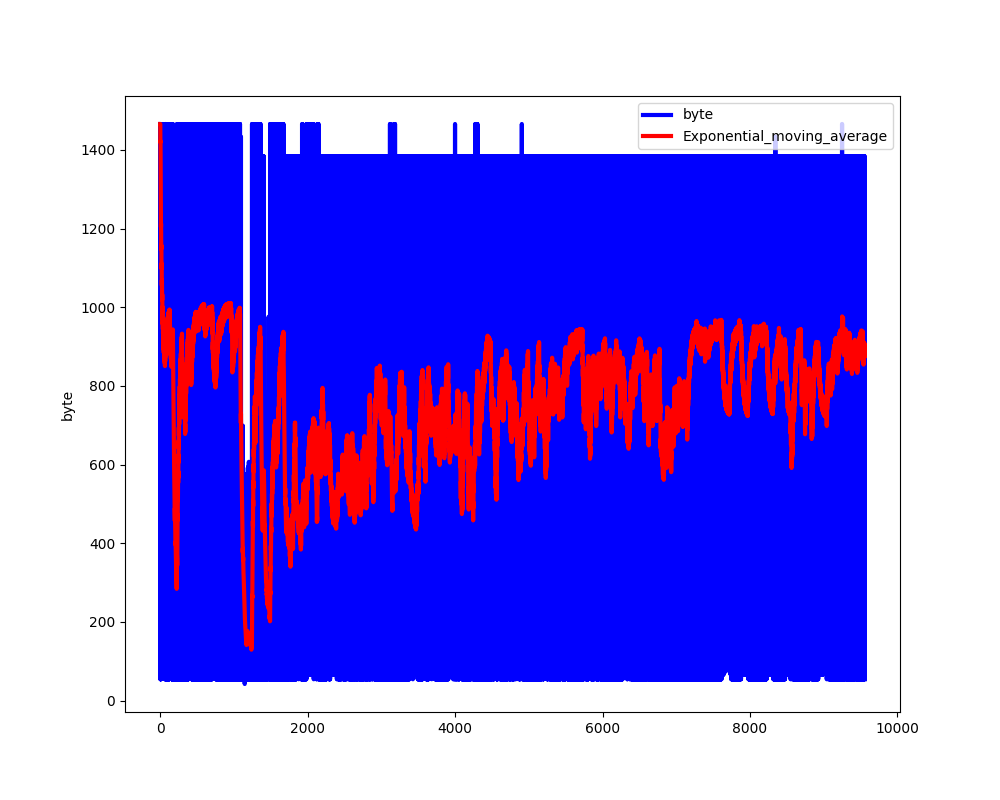
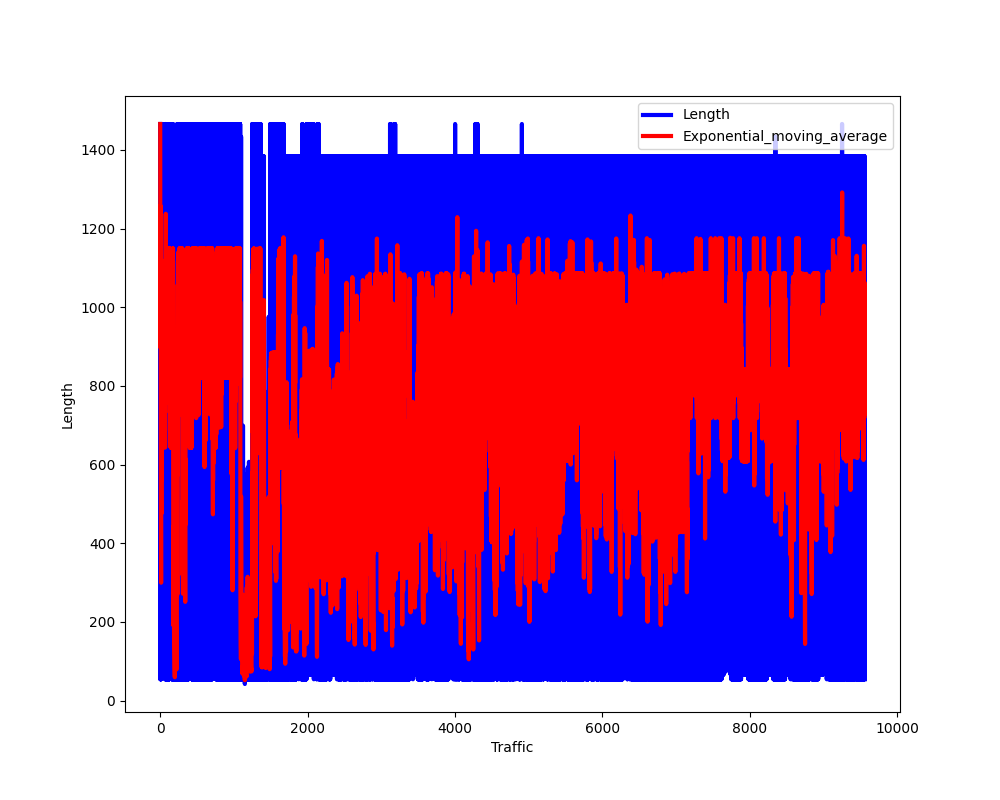
EWMA Calculation by Manually and Pandas ewm() Function

diff --git a/main.py b/main.py
@@ -1,23 +1,22 @@
-import math
-
-import pyshark
-import numpy as np
 import pandas as pd
 import matplotlib.pyplot as plt
 
-data = pd.read_csv("C:/Users/damla/Desktop/Tez/Csvdosyaları/60sec.csv")
+data = pd.read_csv("C:/Users/damla/Desktop/60sec.csv")
 
-time_period = 60 # moving averages window
 
-alpha = 2 / (time_period + 1) # smoothing factor
+print(data.head())
 
-data['byte'].plot()
+time_period = 60
+alpha = 0.8 # smoothing factor
 
-byteList = data['byte']
+data['Length'].plot()
+
+
+byteList = data['Length']
 
 
 exponential_moving_average = [] # list used to store the computed exponential moving averages
-exponential_moving_average_value = 0 # used to store the valur of the computed exponential moving average
+exponential_moving_average_value = 0 # used to store the value of the computed exponential moving average
 
 for byte in byteList:
     if(exponential_moving_average_value == 0):
@@ -27,22 +26,46 @@ for byte in byteList:
 
     exponential_moving_average.append(exponential_moving_average_value)
 
-print(exponential_moving_average)
+
+
+# Manually computed plot
 
 data = data.assign(Exponential_moving_average=pd.Series(exponential_moving_average, index=data.index))
 
-fig1 = plt.figure(figsize=(10,8))
-ax1 = fig1.add_subplot(111,ylabel='byte')
-data['byte'].plot(ax=ax1, color='b', lw=3, legend=True)
-data['Exponential_moving_average'].plot(ax=ax1, color='r', lw=3, legend=True)
-plt.savefig('exponential_moving_average.png')
-plt.show()
+# fig1 = plt.figure(figsize=(10, 8))
+# ax1 = fig1.add_subplot(111, ylabel='Length', xlabel='Traffic')
+# data['Length'].plot(ax=ax1, color='b', lw=3, legend=True)
+# data['Exponential_moving_average'].plot(ax=ax1, color='r', lw=3, legend=True)
+# plt.savefig('exponential_moving_average_alpha_0.8.png')
+# plt.show()
 
-exponential_moving_average_pandas = data['byte'].ewm(span=time_period, adjust=False).mean()
 
-fig2 = plt.figure(figsize=(10,8))
-ax2 = fig2.add_subplot(111, ylabel='Byte')
-data['Exponential_moving_average'].plot(ax=ax2, color='r', lw=10, label='Manually computed', legend=True)
-exponential_moving_average_pandas.plot(ax=ax2, color='k', lw=3, label='Pandas ewm() function', legend=True)
-plt.savefig('exponential_moving_average_comparison.png')
-plt.show()
+# EWMA computed with pandas function and manually computed values comparison
+
+exponential_moving_average_pandas = data['Length'].ewm(span=time_period, adjust=False).mean()
+
+# fig2 = plt.figure(figsize=(10, 8))
+# ax2 = fig2.add_subplot(111, ylabel='Length')
+# data['Exponential_moving_average'].plot(ax=ax2, color='r', lw=10, label='Manually computed', legend=True)
+# exponential_moving_average_pandas.plot(ax=ax2, color='k', lw=3, label='Pandas ewm() function', legend=True)
+# plt.savefig('exponential_moving_average_comparison_alpha_0.8.png')
+# plt.show()
+
+
+
+
+# fig3 = plt.figure(figsize=(10, 8))
+# ax3 = fig3.add_subplot(111, ylabel='Length')
+# data['Length'].plot(ax=ax3, color='r', lw=10, label='Actual Length', legend=True)
+# exponential_moving_average_pandas.plot(ax=ax3, color='k', lw=3, label='Pandas ewm() function', legend=True)
+# plt.savefig('exponential_moving_average_comparison_with_length_alpha_0.8_pandas.png')
+# plt.show()
+
+
+
+# fig4 = plt.figure(figsize=(10, 8))
+# ax4 = fig4.add_subplot(111, ylabel='Length')
+# data['Length'].plot(ax=ax4, color='r', lw=10, label='Actual Length', legend=True)
+# exponential_moving_average_pandas.plot(ax=ax4, color='k', lw=3, label='Manually computed', legend=True)
+# plt.savefig('exponential_moving_average_comparison_with_length_alpha_0.8_manually.png')
+# plt.show()
